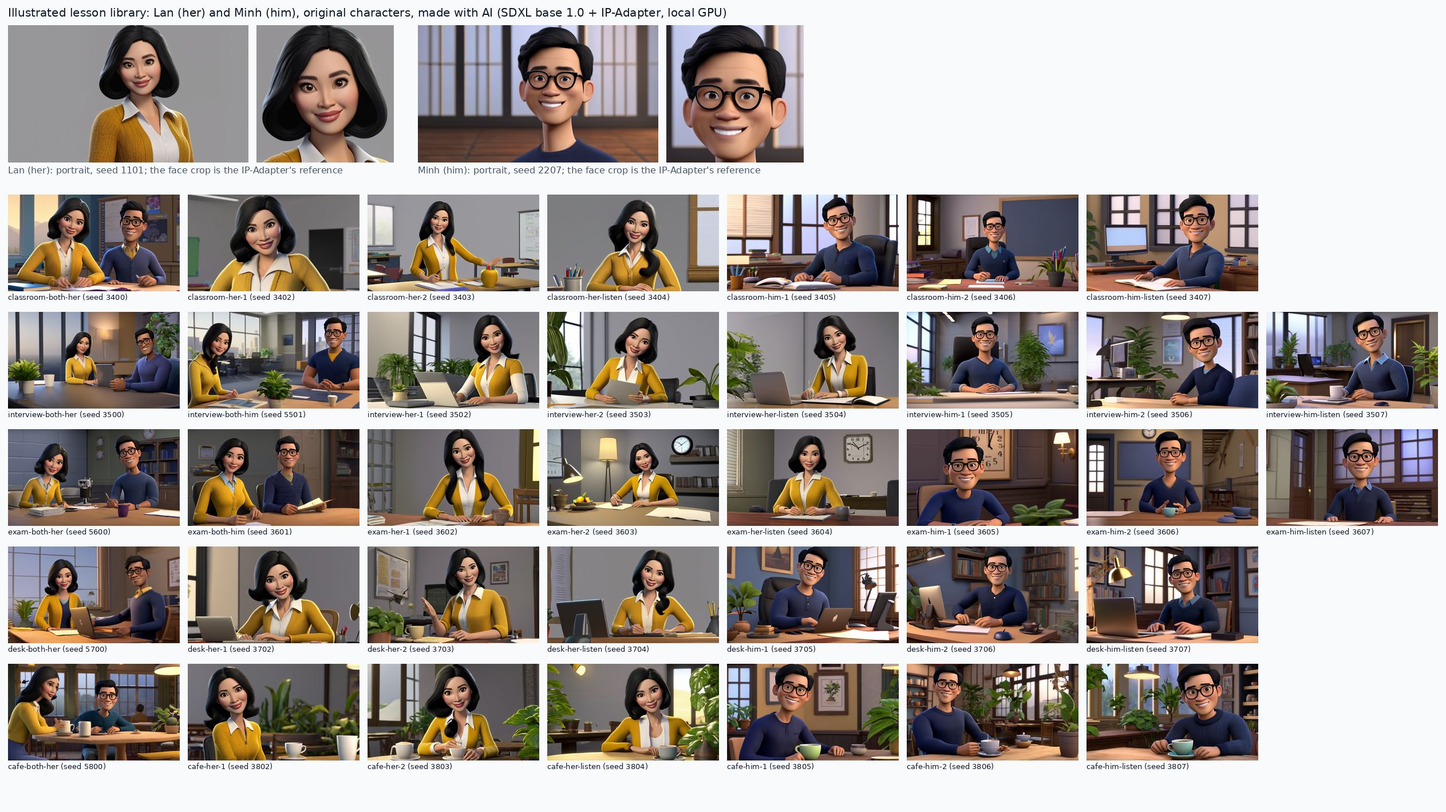
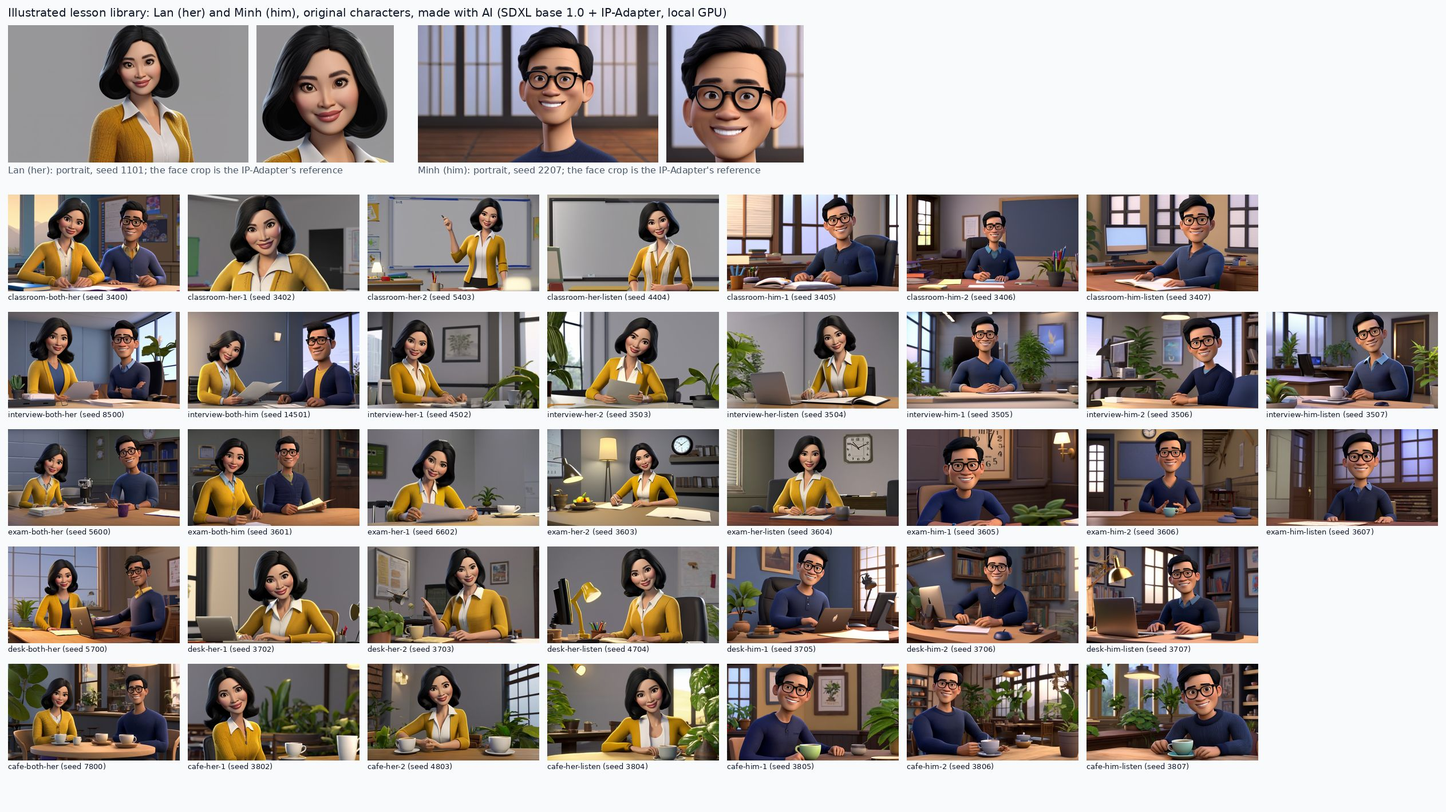
fix: keep lan's hair consistent and make the ai labels smaller (#38)
## What

- Lan's hair: 9 of the 23 stills of her were redrawn with new seeds
(pinned in `prompts.json`) so every still matches the portrait's
shoulder-length hair. No prompt, model or code change for this part.
`library.json` and the contact sheet are updated.
- AI disclosure chips ("AI voice", "Made with AI"): smaller and fainter,
still always shown, top right. Font 30 -> 20, height 52 -> 36, opacity
0.55, in both the flat and the illustrated look (shared `chip_svg`). The
part label keeps its size. Adapter versions bumped so cached scenes
re-render.
- The 26/11 pilot was re-rendered with `--look illustrated`: 1754.5 s;
the gate passes on duration, loudness (-14.3 LUFS / -1.7 dBTP), black
frames and drift (p90 200 ms); it fails only the fact check, which waits
for the owner. Long card titles now sit inside their cards (frames
checked).

## Checks

- `just ci`: 418 OK, 2 skipped.
- gitleaks on the branch: clean.
- Known residual: a small shirt colour bleed under the cardigan in two
"interview-both" stills (noted in the spec).

Refs nghiep-motion-studio#37

🤖 Generated with [Claude Code](https://claude.com/claude-code)

---------

diff --git a/src/motion_studio/visuals/dialogue.py b/src/motion_studio/visuals/dialogue.py
@@ -360,14 +360,31 @@ def _layout(items: list[tuple[str, str]], width: float, height: float, theme: Th
         scale *= 0.92
 
 
-def _chip(x: float, y: float, text: str, theme: Theme, fill: str, colour: str, right: bool = False) -> str:
-    size = 30
-    w = _width(((text, True),), size) + 44
+CHIP = (30, 52)  # font size and height of a label chip (part label, speaker's name)
+AI_CHIP = (20, 36)  # the AI disclosure chips ("AI voice", "Made with AI"): smaller, top right
+AI_CHIP_OPACITY = 0.55  # and fainter, but always shown
+
+
+def chip_svg(x: float, y: float, text: str, theme: Theme, fill: str, colour: str, right: bool = False,
+             small: bool = False, fill_opacity: float = 1.0) -> tuple[str, float]:
+    """A rounded label (SVG) and its width; ``small`` is the faint AI disclosure chip."""
+    size, height = AI_CHIP if small else CHIP
+    pad = 22 * size / CHIP[0]
+    w = _width(((text, True),), size) + 2 * pad
     if right:
         x -= w
-    return (f'<rect x="{x:.1f}" y="{y}" width="{w:.1f}" height="52" rx="26" fill="{fill}"/>'
-            f'<text x="{x + 22:.1f}" y="{y + 37}" font-family="{theme.font}" font-size="{size}" font-weight="bold" '
-            f'fill="{colour}">{escape(text)}</text>')
+    opacity = f' fill-opacity="{fill_opacity}"' if fill_opacity < 1 else ""
+    svg = (f'<rect x="{x:.1f}" y="{y}" width="{w:.1f}" height="{height}" rx="{height / 2:g}" fill="{fill}"{opacity}/>'
+           f'<text x="{x + pad:.1f}" y="{y + height / 2 + size * 0.37:.1f}" font-family="{theme.font}" '
+           f'font-size="{size}" font-weight="bold" fill="{colour}">{escape(text)}</text>')
+    if small:
+        svg = f'<g opacity="{AI_CHIP_OPACITY}">{svg}</g>'
+    return svg, w
+
+
+def _chip(x: float, y: float, text: str, theme: Theme, fill: str, colour: str, right: bool = False,
+          small: bool = False) -> str:
+    return chip_svg(x, y, text, theme, fill, colour, right, small)[0]
 
 
 def _inner_svg(text: str) -> str:
@@ -386,7 +403,8 @@ def scene_svg(visual: dict[str, Any], scenery: str, theme: Theme, width: int, he
     if visual.get("part"):
         parts.append(_chip(40, 28, visual["part"], theme, theme.text, theme.background))
     if visual.get("label"):
-        parts.append(_chip(BASE_W - 40, 28, visual["label"], theme, theme.accent, "#ffffff", right=True))
+        parts.append(_chip(BASE_W - 40, 36, visual["label"], theme, theme.accent, "#ffffff", right=True,
+                           small=True))
     board = visual.get("board")
     if board:
         x, y, w, h = BOARD
@@ -482,7 +500,7 @@ def _concat(entries: list[tuple[Path, int]], fps: int) -> str:
 
 class DialogueAdapter(Adapter):
     kind = KIND
-    version = "1"
+    version = "2"  # 2: a smaller, fainter AI voice chip
     paced = False  # the clip has its own length: narration + tail + pause
     reads_run = True  # the build sees the target length and the language (through the audio)
 

diff --git a/src/motion_studio/visuals/illustrated.py b/src/motion_studio/visuals/illustrated.py
@@ -170,15 +170,9 @@ def bar_box(bubble: Box) -> Box:
     return Box(bubble.x + BUBBLE_PAD[0], bubble.y + bubble.h - BUBBLE_PAD[1] + 8, bubble.w - 2 * BUBBLE_PAD[0], BAR_H)
 
 
-def _chip(x: float, y: float, text: str, theme: Theme, fill: str, colour: str, right: bool = False) -> tuple[str, float]:
-    size = 30
-    w = D._width(((text, True),), size) + 44
-    if right:
-        x -= w
-    svg = (f'<rect x="{x:.1f}" y="{y}" width="{w:.1f}" height="52" rx="26" fill="{fill}" fill-opacity="0.92"/>'
-           f'<text x="{x + 22:.1f}" y="{y + 37}" font-family="{theme.font}" font-size="{size}" font-weight="bold" '
-           f'fill="{colour}">{escape(text)}</text>')
-    return svg, w
+def _chip(x: float, y: float, text: str, theme: Theme, fill: str, colour: str, right: bool = False,
+          small: bool = False) -> tuple[str, float]:
+    return D.chip_svg(x, y, text, theme, fill, colour, right, small, fill_opacity=0.92)
 
 
 def overlay_svg(visual: dict[str, Any], theme: Theme, width: int, height: int) -> str:
@@ -196,9 +190,9 @@ def overlay_svg(visual: dict[str, Any], theme: Theme, width: int, height: int) -
     right = BASE_W - 40
     for key, fill, colour in (("label", theme.accent, "#ffffff"), ("badge", theme.text, theme.background)):
         if visual.get(key):
-            svg, w = _chip(right, 28, visual[key], theme, fill, colour, right=True)
+            svg, w = _chip(right, 36, visual[key], theme, fill, colour, right=True, small=True)
             parts.append(svg)
-            right -= w + 14
+            right -= w + 10
     board = compact_board(visual.get("board"))
     if board:
         inner_top = 96 if board.get("title") else 36
@@ -260,7 +254,7 @@ def speech_seconds(path: Path, fps: int) -> float:
 
 class IllustratedAdapter(Adapter):
     kind = KIND
-    version = "3"  # 2: the board card sits in the bottom corner; 3: a long card title shrinks
+    version = "4"  # 2: the board card sits in the bottom corner; 3: a long card title shrinks; 4: small AI chips
     paced = False  # narration + tail + pause
     reads_run = True
 

diff --git a/tests/test_images.py b/tests/test_images.py
@@ -7,6 +7,7 @@ is not tested here: torch and diffusers exist only in the images venv.
 import json
 import math
 import os
+import re
 import shutil
 import subprocess
 import sys
@@ -249,6 +250,19 @@ class LayoutTests(unittest.TestCase):
         for text in ("Minh", "3 · Listen", "AI voice", "Made with AI", "Mỗi ngày.", "widget", "<polygon"):
             self.assertIn(text, svg)
         self.assertNotIn("<image", svg)  # the still is laid under the overlay by ffmpeg, not embedded
+
+    def test_ai_chips_are_small_and_faint_but_shown(self) -> None:
+        visual = {"kind": "illustrated", "image": "a.jpg", "talk": "her", "part": "3 · Listen",
+                  "label": "AI voice", "badge": "Made with AI", "caption": {"text": "Hi."}}
+        svg = V.overlay_svg(visual, LIGHT, 1920, 1080)
+        for text in ("AI voice", "Made with AI"):
+            chip = re.search(r'<g opacity="([0-9.]+)"><rect [^>]*height="(\d+)" rx="(\d+)"[^>]*/><text [^>]*'
+                             r'font-size="(\d+)"[^>]*>' + re.escape(text) + "<", svg)
+            self.assertIsNotNone(chip, text)
+            self.assertEqual(chip.groups(), ("0.55", "36", "18", "20"))
+        part = re.search(r'<rect [^>]*height="(\d+)"[^>]*/><text [^>]*font-size="(\d+)"[^>]*>3 · Listen<', svg)
+        self.assertEqual(part.groups(), ("52", "30"))  # the part label keeps its size
+        self.assertNotIn('opacity="0.55"><rect x="40', svg)
 
     def test_the_camera_move_is_slow_and_bounded(self) -> None:
         self.assertAlmostEqual(V.zoom_amount(0), V.ZOOM_MIN)

diff --git a/tests/test_dialogue.py b/tests/test_dialogue.py
@@ -156,6 +156,9 @@ class TextTests(unittest.TestCase):
         for needle in ("2 · Words", "AI voice", "A &amp; ", ">B<", "nghĩa", "Word 1", "rubric"):
             self.assertIn(needle, svg)
         self.assertNotIn("<!--", svg)
+        self.assertIn('<g opacity="0.55">', svg)  # the AI voice chip: small and faint, never left out
+        self.assertRegex(svg, r'height="36" rx="18"[^>]*/><text [^>]*font-size="20"[^>]*>AI voice<')
+        self.assertRegex(svg, r'height="52" rx="26"[^>]*/><text [^>]*font-size="30"[^>]*>2 · Words<')
 
     def test_long_board_text_shrinks_to_fit(self) -> None:
         blocks = D._layout([("body", "word " * 400)], 900, 500, LIGHT)

diff --git a/docs/spec.md b/docs/spec.md
@@ -469,7 +469,13 @@ prompts file (seed + 1000 x k). A two-shot with no clean seed goes under
 `skip`: either two-shot of a place serves both speakers (the camera moves to
 the one who talks), so the place uses its other two-shot. Review of
 2026-11-26: 30 candidates, 4 seeds chosen, 3 two-shots skipped (classroom,
-desk and cafe with him speaking), so the library has 37 stills.
+desk and cafe with him speaking), so the library has 37 stills. Hair pass
+(issue 37): the face adapter keeps the face but not always the hair, and in
+nine stills Lan's hair ran past her shoulders. Each was drawn again with 4
+to 10 candidate seeds and the one whose hair matches the portrait
+(shoulder-length, curled under) went under `seeds`; the other stills and both
+portraits stayed as they were. Two of the chosen two-shots still show a
+little colour bleed in the shirt under the cardigan or sweater.
 
 **One model on the GPU at a time** (`images_worker.py`, run in the images
 venv): the text encoders encode every prompt and leave; SDXL draws the two
@@ -486,7 +492,8 @@ still at 2x the output size and `zoompan` pushing in slowly (ease-out, 3 % +
 1.2 % per second of the clip, at most 12 %) towards `focus` (the speaker's
 side in a two-shot, the upper centre in a single shot, since SDXL does not
 reliably place one person left or right), kept inside the picture; one transparent SVG per scene on top: the
-part label, "AI voice" and "Made with AI" chips, a large speech bubble at the
+part label, small faint "AI voice" and "Made with AI" chips (20 px, 55 % opacity,
+top right; the AI disclosure is never left out), a large speech bubble at the
 bottom on the speaker's side (52 px sentence, 38 px Vietnamese line, shrinks
 to fit, the speaker's name on its edge, a tail pointing up at the speaker),
 and the board as a card in the bottom corner beside the bubble, on the other
@@ -516,7 +523,12 @@ lesson's window (`--min-s 1200 --max-s 1800`): duration, loudness (-14.3
 LUFS, true peak -1.7 dBTP), black frames and drift (median 20 ms, p90 210
 ms, 315 of 354 cues) pass; fact-check waits for Nghiep. 3 Shorts (59.8,
 58.5, 59.4 s). The look stays opt-in until Nghiep approves the two
-characters on `samples/library/contact-sheet.jpg`.
+characters on `samples/library/contact-sheet.jpg`. Rendered again
+after the hair pass and the smaller AI chips (issue 37): visuals 973 s,
+render 707 s, subtitles 58 s; duration 1754.5 s, loudness (-14.3 LUFS, true
+peak -1.7 dBTP), black frames and drift (median 20 ms, p90 200 ms, 300 of 354
+cues) pass, fact-check waits; no card title touches its card; 3 Shorts (59.8,
+58.5, 59.4 s).
 
 ## Work dir and disk (issue 22)
 
